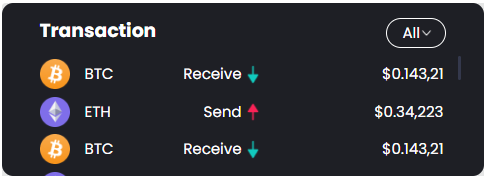
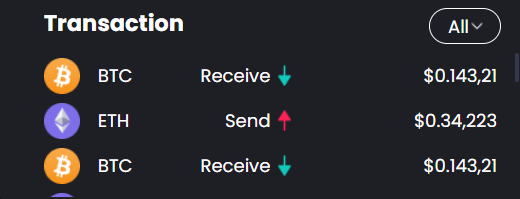
market widget added to customizer

diff --git a/components/widget/Market/RightWidget.tsx b/components/widget/Market/RightWidget.tsx
@@ -1,0 +1,255 @@
+"use client";
+import React from "react";
+import Image from "next/image";
+
+const RightWidget: React.FC = () => {
+  const data = [
+    {
+      icon: "/images/market-icon/BTC.png",
+      type: "BTC",
+      name: "Bitcoin",
+      price: "USD 53,260,20",
+      change: "0.25%",
+      graph: "/images/market-graph/BTC.png",
+    },
+    {
+      icon: "/images/market-icon/ETH.png",
+      type: "ETH",
+      name: "Ethereum",
+      price: "USD 53,260,20",
+      change: "0.25%",
+      graph: "/images/market-graph/ETH.png",
+    },
+    {
+      icon: "/images/market-icon/BNB.png",
+      type: "BNB",
+      name: "Binance Coin",
+      price: "USD 247.72",
+      change: "2.43%",
+      graph: "/images/market-graph/BNB.png",
+    },
+    {
+      icon: "/images/market-icon/XRP.png",
+      type: "XRP",
+      name: "XRP",
+      price: "USD 0.5657",
+      change: "2.42%",
+      graph: "/images/market-graph/XRP.png",
+    },
+    {
+      icon: "/images/market-icon/USDT.png",
+      type: "USDT",
+      name: "Tether",
+      price: "USD 0.9999",
+      change: "0.40%",
+      graph: "/images/market-graph/USDT.png",
+    },
+    {
+      icon: "/images/market-icon/ACT.png",
+      type: "ACT",
+      name: "Achain",
+      price: "USD 40,355.12",
+      change: "0.05%",
+      graph: "/images/market-graph/ACT.png",
+    },
+    {
+      icon: "/images/market-icon/OGN.png",
+      type: "OGN",
+      name: "Origin Protocol",
+      price: "USD 3,152.93",
+      change: "0.22%",
+      graph: "/images/market-graph/OGN.png",
+    },
+    {
+      icon: "/images/market-icon/BTC.png",
+      type: "BTC",
+      name: "Bitcoin",
+      price: "USD 53,260,20",
+      change: "0.25%",
+      graph: "/images/market-graph/BTC.png",
+    },
+    {
+      icon: "/images/market-icon/ETH.png",
+      type: "ETH",
+      name: "Ethereum",
+      price: "USD 53,260,20",
+      change: "0.25%",
+      graph: "/images/market-graph/ETH.png",
+    },
+    {
+      icon: "/images/market-icon/BNB.png",
+      type: "BNB",
+      name: "Binance Coin",
+      price: "USD 247.72",
+      change: "2.43%",
+      graph: "/images/market-graph/BNB.png",
+    },
+    {
+      icon: "/images/market-icon/XRP.png",
+      type: "XRP",
+      name: "XRP",
+      price: "USD 0.5657",
+      change: "2.42%",
+      graph: "/images/market-graph/XRP.png",
+    },
+    {
+      icon: "/images/market-icon/USDT.png",
+      type: "USDT",
+      name: "Tether",
+      price: "USD 0.9999",
+      change: "0.40%",
+      graph: "/images/market-graph/USDT.png",
+    },
+    {
+      icon: "/images/market-icon/ACT.png",
+      type: "ACT",
+      name: "Achain",
+      price: "USD 40,355.12",
+      change: "0.05%",
+      graph: "/images/market-graph/ACT.png",
+    },
+    {
+      icon: "/images/market-icon/OGN.png",
+      type: "OGN",
+      name: "Origin Protocol",
+      price: "USD 3,152.93",
+      change: "0.22%",
+      graph: "/images/market-graph/OGN.png",
+    },
+    {
+      icon: "/images/market-icon/BTC.png",
+      type: "BTC",
+      name: "Bitcoin",
+      price: "USD 53,260,20",
+      change: "0.25%",
+      graph: "/images/market-graph/BTC.png",
+    },
+    {
+      icon: "/images/market-icon/ETH.png",
+      type: "ETH",
+      name: "Ethereum",
+      price: "USD 53,260,20",
+      change: "0.25%",
+      graph: "/images/market-graph/ETH.png",
+    },
+    {
+      icon: "/images/market-icon/BNB.png",
+      type: "BNB",
+      name: "Binance Coin",
+      price: "USD 247.72",
+      change: "2.43%",
+      graph: "/images/market-graph/BNB.png",
+    },
+    {
+      icon: "/images/market-icon/XRP.png",
+      type: "XRP",
+      name: "XRP",
+      price: "USD 0.5657",
+      change: "2.42%",
+      graph: "/images/market-graph/XRP.png",
+    },
+    {
+      icon: "/images/market-icon/USDT.png",
+      type: "USDT",
+      name: "Tether",
+      price: "USD 0.9999",
+      change: "0.40%",
+      graph: "/images/market-graph/USDT.png",
+    },
+    {
+      icon: "/images/market-icon/ACT.png",
+      type: "ACT",
+      name: "Achain",
+      price: "USD 40,355.12",
+      change: "0.05%",
+      graph: "/images/market-graph/ACT.png",
+    },
+    {
+      icon: "/images/market-icon/OGN.png",
+      type: "OGN",
+      name: "Origin Protocol",
+      price: "USD 3,152.93",
+      change: "0.22%",
+      graph: "/images/market-graph/OGN.png",
+    },
+  ];
+  return (
+    <div className="newWidget grid-stack-item">
+      <div className="flex  w-3/4 pl-3 pt-12 pb-4 h-[30rem]">
+        <div className="flex w-full h-full text-white rounded-xl p-6 bg-[#1E1F25]">
+          <div className="flex flex-col w-full h-full">
+            <div className="flex flex-row justify-between w-full h-[30px]">
+              <div>Market Table</div>
+              <div className="text-[#5D6588]">
+                <button className="hover:bg-[#000] text-base px-4 py-2 rounded-full focus:bg-black focus:text-white">
+                  All Assets
+                </button>
+                <button className="hover:bg-[#000] text-base px-4 py-2 rounded-full focus:bg-black focus:text-white">
+                  Gainers
+                </button>
+                <button className="hover:bg-[#000] text-base px-4 py-2 rounded-full focus:bg-black focus:text-white">
+                  Losers
+                </button>
+                <button className="hover:bg-[#000] text-base px-4 py-2 rounded-full focus:bg-black focus:text-white">
+                  Tradeable
+                </button>
+              </div>
+            </div>
+            <div className="overflow-y-auto h-full mt-6">
+              <table className="table table-pin-rows">
+                <thead>
+                  <tr className="bg-[#1E1F25] border-[#5D6588] text-[#5D6588] text-[14px]">
+                    <th>Assets</th>
+                    <th></th>
+                    <th>Last Price</th>
+                    <th>Market Cap</th>
+                    <th>Change</th>
+                    <th>Chart</th>
+                    <th>Trade</th>
+                  </tr>
+                </thead>
+                <tbody>
+                  {data.map((item, index) => (
+                    <tr key={index} className="hover">
+                      <td className="flex gap-3 mt-2">
+                        <Image
+                          width={18}
+                          height={18}
+                          src={item.icon}
+                          alt="img"
+                        />
+                        <div>{item.type}</div>
+                      </td>
+                      <td>
+                        <div className="text-[#A5ADCF]">{item.name}</div>
+                      </td>
+                      <td>
+                        <div>{item.price}</div>
+                      </td>
+                      <td>
+                        <div>{item.price}</div>
+                      </td>
+                      <td>
+                        <div>{item.change}</div>
+                      </td>
+                      <td>
+                        <img src={item.graph} />
+                      </td>
+                      <td>
+                        <button className="rounded-full border-2 border-[#246CF9] px-4 py-2">
+                          Buy
+                        </button>
+                      </td>
+                    </tr>
+                  ))}
+                </tbody>
+              </table>
+            </div>
+          </div>
+        </div>
+      </div>
+    </div>
+  );
+};
+
+export default RightWidget;

diff --git a/components/widget/Dashboard/TransactionWidget.tsx b/components/widget/Dashboard/TransactionWidget.tsx
@@ -1,11 +1,68 @@
 "use client";
 import React from "react";
-import Transaction from "@/components/dashboard/transaction";
 
 const TransactionWidget: React.FC = () => {
+  const data = [
+    { type: "BTC", action: "Receive", value: "$0.143,21" },
+    { type: "ETH", action: "Send", value: "$0.34,223" },
+    { type: "BTC", action: "Receive", value: "$0.143,21" },
+    { type: "ETH", action: "Send", value: "$0.34,223" },
+    { type: "BTC", action: "Receive", value: "$0.143,21" },
+    { type: "ETH", action: "Send", value: "$0.34,223" },
+    { type: "BTC", action: "Receive", value: "$0.143,21" },
+    { type: "ETH", action: "Send", value: "$0.34,223" },
+    { type: "BTC", action: "Receive", value: "$0.143,21" },
+    { type: "ETH", action: "Send", value: "$0.34,223" },
+    { type: "BTC", action: "Receive", value: "$0.143,21" },
+    { type: "ETH", action: "Send", value: "$0.34,223" },
+    { type: "BTC", action: "Receive", value: "$0.143,21" },
+    { type: "ETH", action: "Send", value: "$0.34,223" },
+    { type: "BTC", action: "Receive", value: "$0.143,21" },
+    { type: "ETH", action: "Send", value: "$0.34,223" },
+  ];
   return (
     <div className="newWidget grid-stack-item">
-      <Transaction />
+      <div className="bg-[#1E1F25] rounded-xl w-full px-6 pt-4 text-white">
+        <div className="flex flex-row justify-between items-start px-4 w-full h-6">
+          <div className="text-white text-xl font-bold">Transaction</div>
+          <div className="flex justify-between items-center text-white text-base border-white border rounded-full w-16 h-8 px-4 py-2 cursor-pointer">
+            All
+            <img src="/images/arrow-down-white.png" alt="arrow-down-white" />
+          </div>
+        </div>
+        <div className="overflow-y-auto w-full h-[8rem] mt-4 px-4">
+          {data.map((item, index) => (
+            <div key={index} className="flex justify-between items-center h-10">
+              <div className="flex items-center justify-between w-1/2">
+                <div className="flex items-center">
+                  <img
+                    src={
+                      item.type === "BTC"
+                        ? "/images/bitcoin-icon-big.png"
+                        : "/images/eth-icon-big.png"
+                    }
+                    className="pr-4"
+                  />
+                  {item.type}
+                </div>
+                <div>{item.action}</div>
+              </div>
+              <div className="flex justify-between items-center w-1/2">
+                <img
+                  src={
+                    item.action === "Receive"
+                      ? "/images/arrow-down-green-big.png"
+                      : "/images/arrow-up-red-big.png"
+                  }
+                  className="pr-4"
+                />
+                {item.value}
+              </div>
+              {/* <div>{item.value}</div> */}
+            </div>
+          ))}
+        </div>
+      </div>
     </div>
   );
 };

diff --git a/app/customizer/page.tsx b/app/customizer/page.tsx
@@ -32,6 +32,9 @@ import ExchangeWidget from "@/components/widget/Dashboard/ExchangeWidget";
 import CustomChartWidget from "@/components/widget/Dashboard/CustomChartWidget";
 import TransactionWidget from "@/components/widget/Dashboard/TransactionWidget";
 import BalanceWidget from "@/components/widget/Dashboard/BalanceWidget";
+import LeftWidget from "@/components/widget/Market/LeftWidget";
+import RightWidget from "@/components/widget/Market/RightWidget";
+
 interface WidgetPack {
   widget: React.FC;
   script: React.FC | null;
@@ -187,6 +190,16 @@ const widgetPacks: WidgetPack[] = [
     widget: BalanceWidget,
     script: null,
     image: "/assets/widget/balance.jpg",
+  },
+  {
+    widget: LeftWidget,
+    script: null,
+    image: "/assets/widget/left.png",
+  },
+  {
+    widget: RightWidget,
+    script: null,
+    image: "/assets/widget/right.png",
   },
 ];
 

diff --git a/components/widget/Market/LeftWidget.tsx b/components/widget/Market/LeftWidget.tsx
@@ -1,0 +1,29 @@
+"use client";
+import React from "react";
+import Card from "@/components/dashboard/card";
+
+const LeftWidget: React.FC = () => {
+  const symbols = [
+    "BINANCE:BTCUSD",
+    "COINBASE:ETHUSD",
+    "COINBASE:USDTUSD",
+    "BINANCE:BNBUSD",
+  ];
+  return (
+    <div className="newWidget grid-stack-item">
+      <div className="flex h-[30rem] w-full pr-3">
+        <div className="flex flex-col w-full h-full text-white">
+          <div className="flex flex-col w-full overflow-y-auto">
+            {symbols.map((symbol, index) => (
+              <div key={index} className="w-full py-4 pr-6">
+                <Card cryptoPair={symbol} />
+              </div>
+            ))}
+          </div>
+        </div>
+      </div>
+    </div>
+  );
+};
+
+export default LeftWidget;

diff --git a/components/widget/Dashboard/CustomChartWidget.tsx b/components/widget/Dashboard/CustomChartWidget.tsx
@@ -1,10 +1,10 @@
 import React from "react";
 import CustomChart from "@/components/dashboard/customChart";
-const CustomChartWidget=()=> {
+const CustomChartWidget: React.FC = () => {
   return (
     <div className="newWidget grid-stack-item">
       <CustomChart />
     </div>
   );
-}
+};
 export default CustomChartWidget;
